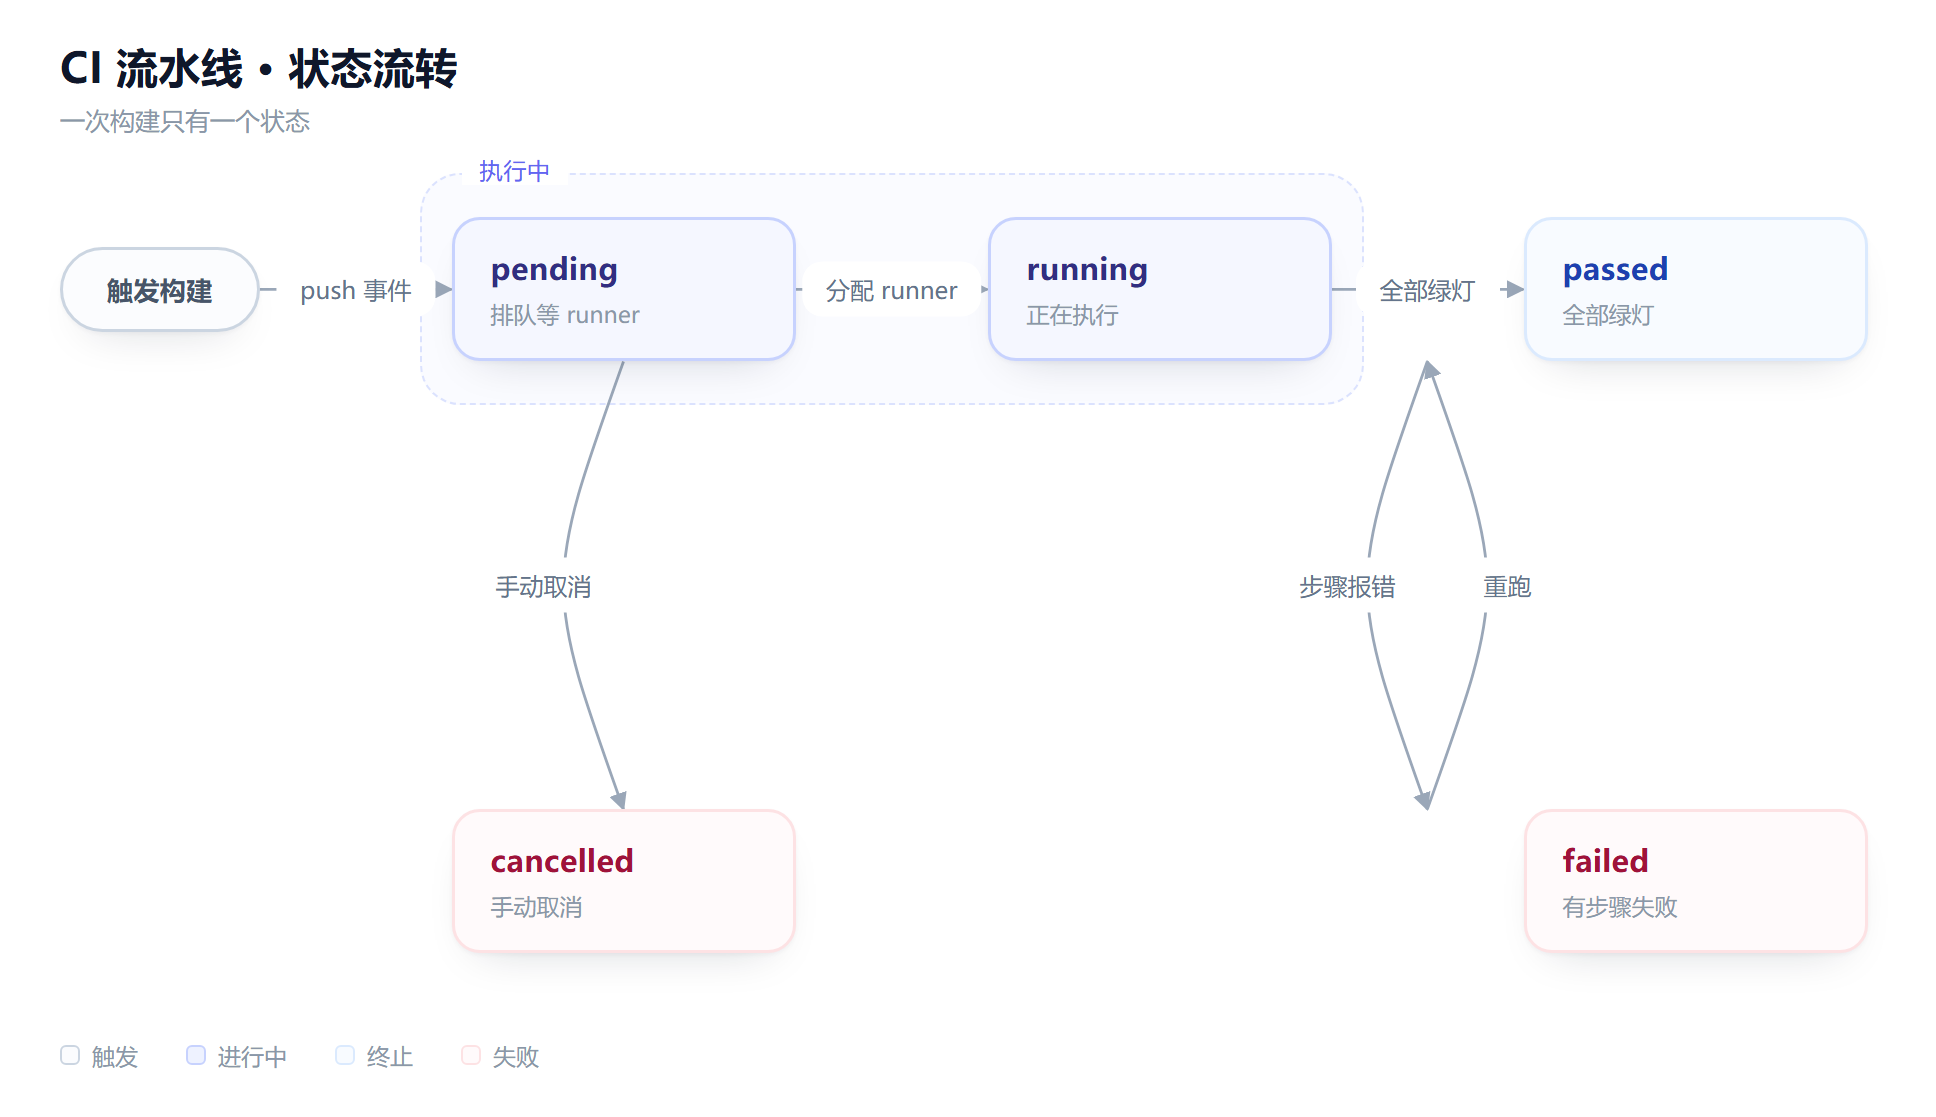
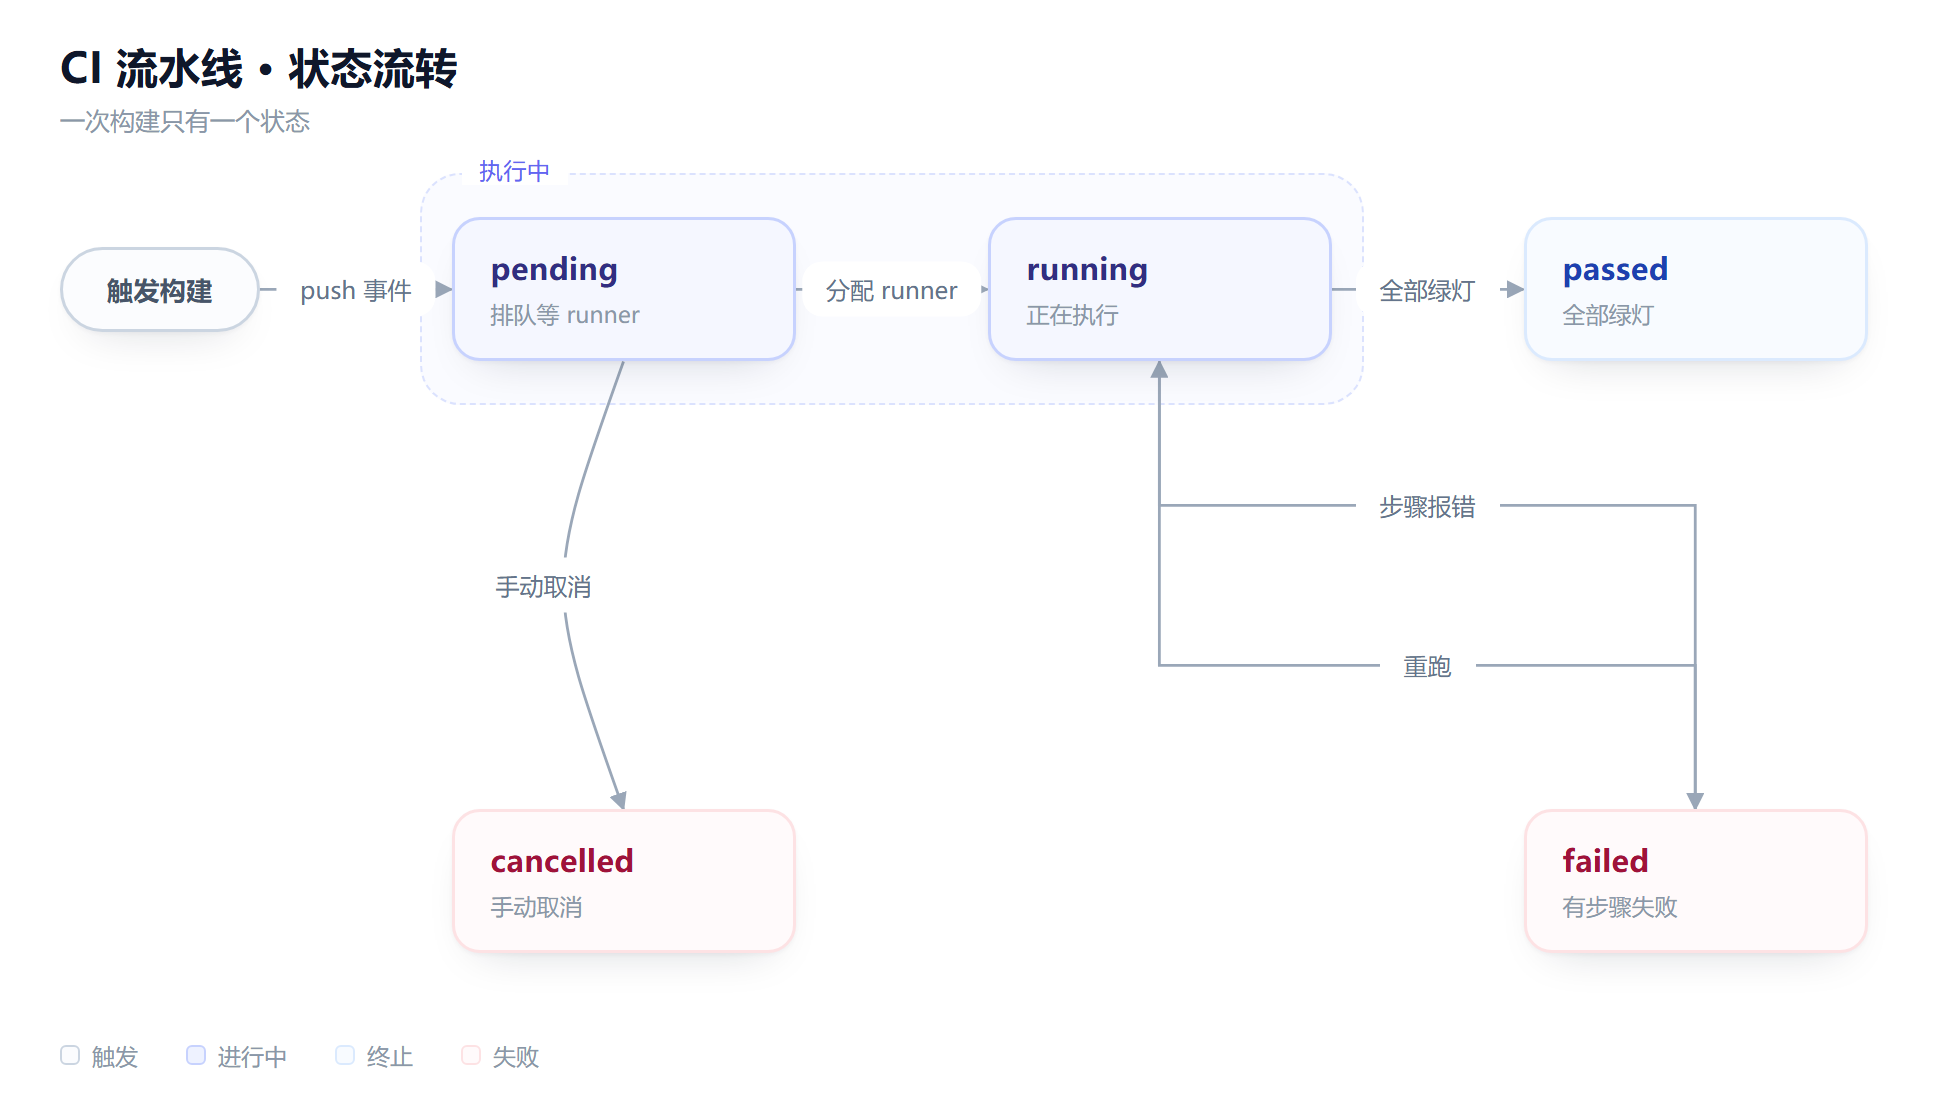
fix: keep diagonal edges anchored to node borders
- route diagonal connections as orthogonal 3-segment paths (out, across, in)
- choose the path that does not cross any other card
- add regression tests covering all four diagonal directions and the no-crossing fallback
- regenerate examples 02 and 03

diff --git a/src/dgm/templates/base.html b/src/dgm/templates/base.html
@@ -49,13 +49,42 @@ const EDGES = __EDGES__;
 const canvas=document.getElementById('canvas'), svg=document.getElementById('wires');
 function box(id){const el=document.getElementById(id);if(!el)return null;
   const c=canvas.getBoundingClientRect(),r=el.getBoundingClientRect();
-  return {x:r.left-c.left,y:r.top-c.top,w:r.width,h:r.height,cx:r.left-c.left+r.width/2,
+  return {id:id,x:r.left-c.left,y:r.top-c.top,w:r.width,h:r.height,cx:r.left-c.left+r.width/2,
           cy:r.top-c.top+r.height/2,r:r.left-c.left+r.width,b:r.top-c.top+r.height};}
-function anchors(a,b){const ov=Math.min(a.b,b.b)>Math.max(a.y,b.y);
-  if(b.cx>a.cx&&ov){const y=(Math.max(a.y,b.y)+Math.min(a.b,b.b))/2;return [{x:a.r,y},{x:b.x,y},'h'];}
-  if(b.cx<a.cx&&ov){const y=(Math.max(a.y,b.y)+Math.min(a.b,b.b))/2;return [{x:a.x,y},{x:b.r,y},'h'];}
-  if(b.cy>a.cy){const x=(Math.max(a.x,b.x)+Math.min(a.r,b.r))/2;return [{x,y:a.b},{x,y:b.y},'v'];}
-  const x=(Math.max(a.x,b.x)+Math.min(a.r,b.r))/2;return [{x,y:a.y},{x,y:b.b},'v'];}
+function anchors(a,b,boxes){
+  const yov=Math.min(a.b,b.b)>Math.max(a.y,b.y);   // y 范围重叠 → 可横连
+  const xov=Math.min(a.r,b.r)>Math.max(a.x,b.x);   // x 范围重叠 → 可竖连
+  if(b.cx>a.cx&&yov){const y=(Math.max(a.y,b.y)+Math.min(a.b,b.b))/2;return [{x:a.r,y},{x:b.x,y},'h'];}
+  if(b.cx<a.cx&&yov){const y=(Math.max(a.y,b.y)+Math.min(a.b,b.b))/2;return [{x:a.x,y},{x:b.r,y},'h'];}
+  if(b.cy>a.cy&&xov){const x=(Math.max(a.x,b.x)+Math.min(a.r,b.r))/2;return [{x,y:a.b},{x,y:b.y},'v'];}
+  if(b.cy<a.cy&&xov){const x=(Math.max(a.x,b.x)+Math.min(a.r,b.r))/2;return [{x,y:a.y},{x,y:b.b},'v'];}
+  // 斜对角（x/y 范围都不重叠）：锚点贴边——起点取 a 靠近 b 的那条边中点，终点同理取 b，
+  // 不用「范围中点」（两个范围不相交时中点落在卡片外的空隙里，锚点会悬空）。
+  return diagAnchors(a,b,boxes);}
+function diagAnchors(a,b,boxes){
+  const dx=b.cx-a.cx,dy=b.cy-a.cy;
+  const h=[{x:dx>=0?a.r:a.x,y:a.cy},{x:dx>=0?b.x:b.r,y:b.cy},'dh'];
+  const v=[{x:a.cx,y:dy>=0?a.b:a.y},{x:b.cx,y:dy>=0?b.y:b.b},'dv'];
+  if(!boxes||!boxes.length)return Math.abs(dx)>=Math.abs(dy)?h:v;
+  // 正交折线可能横穿夹在中间的卡片：两条候选各查一遍，哪条不穿走哪条；
+  // 都不穿（或都穿）才按主方向（|dx|、|dy| 谁大走谁）。
+  const hb=routeBlocked(h,a,b,boxes),vb=routeBlocked(v,a,b,boxes);
+  if(hb&&!vb)return v;
+  if(vb&&!hb)return h;
+  return Math.abs(dx)>=Math.abs(dy)?h:v;}
+function routeBlocked(r,a,b,boxes){
+  const p1=r[0],p2=r[1],mx=(p1.x+p2.x)/2,my=(p1.y+p2.y)/2;
+  const legs=r[2]==='dh'
+    ?[[p1.x,p1.y,mx,p1.y],[mx,p1.y,mx,p2.y],[mx,p2.y,p2.x,p2.y]]
+    :[[p1.x,p1.y,p1.x,my],[p1.x,my,p2.x,my],[p2.x,my,p2.x,p2.y]];
+  return legs.some(l=>segHitsBox(l[0],l[1],l[2],l[3],boxes,a.id,b.id));}
+function segHitsBox(x1,y1,x2,y2,boxes,skipId1,skipId2){
+  const minx=Math.min(x1,x2),maxx=Math.max(x1,x2),
+        miny=Math.min(y1,y2),maxy=Math.max(y1,y2);
+  for(const r of boxes){
+    if(r.id===skipId1||r.id===skipId2)continue;
+    if(maxx>=r.x&&minx<=r.r&&maxy>=r.y&&miny<=r.b)return true;}
+  return false;}
 const NS='http://www.w3.org/2000/svg';
 function draw(){
   svg.innerHTML='';canvas.querySelectorAll('.elabel').forEach(n=>n.remove());
@@ -65,13 +94,22 @@ function draw(){
      orient="auto-start-reverse"><path d="M0,0 L10,5 L0,10 z" fill="#9aa7b8"/></marker>`;
   svg.appendChild(defs);
   const labs=[];
+  const boxes=[...canvas.querySelectorAll('.node')].map(n=>box(n.id)).filter(Boolean);
   EDGES.forEach(e=>{
     const a=box(e.from),b=box(e.to);if(!a||!b)return;
-    const [p1,p2,dir]=anchors(a,b);const bend=e.bend||0;let d,mx,my;
+    const [p1,p2,dir]=anchors(a,b,boxes);const bend=e.bend||0;let d,mx,my;
     if(dir==='h'){mx=(p1.x+p2.x)/2;my=(p1.y+p2.y)/2+bend;
       d=`M${p1.x},${p1.y} C${mx},${p1.y+bend} ${mx},${p2.y+bend} ${p2.x},${p2.y}`;}
-    else{mx=(p1.x+p2.x)/2+bend;my=(p1.y+p2.y)/2;
+    else if(dir==='v'){mx=(p1.x+p2.x)/2+bend;my=(p1.y+p2.y)/2;
       d=`M${p1.x},${p1.y} C${p1.x+bend},${my} ${p2.x+bend},${my} ${p2.x},${p2.y}`;}
+    else if(dir==='dh'){ // 斜对角·主方向横向：水平出 → 中点 → 垂直 → 水平入
+      mx=Math.min(Math.max((p1.x+p2.x)/2+bend,Math.min(p1.x,p2.x)),Math.max(p1.x,p2.x));
+      my=(p1.y+p2.y)/2;
+      d=`M${p1.x},${p1.y} L${mx},${p1.y} L${mx},${p2.y} L${p2.x},${p2.y}`;}
+    else{ // 'dv' 斜对角·主方向纵向：垂直出 → 中点 → 水平 → 垂直入
+      my=Math.min(Math.max((p1.y+p2.y)/2+bend,Math.min(p1.y,p2.y)),Math.max(p1.y,p2.y));
+      mx=(p1.x+p2.x)/2;
+      d=`M${p1.x},${p1.y} L${p1.x},${my} L${p2.x},${my} L${p2.x},${p2.y}`;}
     const path=document.createElementNS(NS,'path');path.setAttribute('d',d);
     path.setAttribute('fill','none');path.setAttribute('stroke','#9aa7b8');path.setAttribute('stroke-width','1.4');
     if(e.dashed)path.setAttribute('stroke-dasharray','4 4');

diff --git a/tests/test_renderer.py b/tests/test_renderer.py
@@ -1,6 +1,8 @@
 """renderer 测试：不跑真浏览器，mock 掉 subprocess，验证 HTML 内容和裁剪逻辑。"""
 
+import itertools
 import json
+import shutil
 import subprocess
 from pathlib import Path
 
@@ -8,7 +10,7 @@ import pytest
 from PIL import Image
 
 from dgm.parser import DgmError, parse_dgm
-from dgm.renderer import build_html, find_browser, render, validate_spec
+from dgm.renderer import build_html, find_browser, load_template, render, validate_spec
 
 SAMPLE = """\
 title: 测试图
@@ -129,3 +131,141 @@ def test_find_browser_env_var(monkeypatch, tmp_path):
     fake.write_text("")
     monkeypatch.setenv("DGM_BROWSER", str(fake))
     assert find_browser() == str(fake)
+
+
+# ---------------- anchors：抽模板里的真 JS 跑 node，验证锚点贴边 ----------------
+
+
+def _extract_anchor_js() -> str:
+    """从 base.html 抽出 anchors()/diagAnchors() 函数源码——测真代码，不是 Python 复刻品。"""
+    template = load_template()
+    start = template.index("function anchors(")
+    end = template.index("const NS=")
+    js = template[start:end]
+    assert "diagAnchors" in js, "抽出失败：模板里找不到 diagAnchors"
+    return js
+
+
+def _run_anchors_js(cases: list):
+    """把 [(a,b) 或 (a,b,boxes), ...] 喂给模板里的 anchors()，返回对应返回值列表。"""
+    node = shutil.which("node")
+    if node is None:
+        pytest.skip("本机没有 node，跳过 anchors JS 单测")
+    script = (
+        _extract_anchor_js()
+        + "\nconst CASES="
+        + json.dumps(cases)
+        + ";\nconsole.log(JSON.stringify(CASES.map(c=>anchors(...c))));"
+    )
+    out = subprocess.run([node, "-e", script], capture_output=True, text=True, timeout=30)
+    assert out.returncode == 0, f"node 执行失败：{out.stderr}"
+    return json.loads(out.stdout)
+
+
+_BOX_SEQ = itertools.count()
+
+
+def _box(x: float, y: float, w: float = 200, h: float = 64, id: str | None = None) -> dict:
+    """造一个 box 对象；id 必须唯一——segHitsBox 靠 id 跳过起终点卡片。"""
+    return {"id": id or f"n{next(_BOX_SEQ)}", "x": x, "y": y, "w": w, "h": h,
+            "cx": x + w / 2, "cy": y + h / 2, "r": x + w, "b": y + h}
+
+
+def _on_border(p: dict, box: dict) -> bool:
+    """点是否落在 box 的四条边之一上，且在该边段范围内。"""
+    on_side = (p["x"] == box["x"] or p["x"] == box["r"]) and box["y"] <= p["y"] <= box["b"]
+    on_top_bottom = (p["y"] == box["y"] or p["y"] == box["b"]) and box["x"] <= p["x"] <= box["r"]
+    return on_side or on_top_bottom
+
+
+def test_anchors_diagonal_endpoints_on_node_border():
+    """斜对角（x/y 范围都不重叠）锚点必须贴边——回归 02/03 曲线断头的 bug。
+
+    旧实现用「x 范围中点」当锚点，两卡片 x 范围不相交时中点落在空隙里，箭头悬空。
+    """
+    # 复刻 @1,1 → @2,3 的典型布局：卡片 172+ 宽，列间距 96 / 行间距 112
+    a = _box(0, 0)                      # x∈[0,200] y∈[0,64]
+    b = _box(200 + 96, 64 + 112)        # x∈[296,496] y∈[176,240]——两个范围都不重叠
+    assert min(a["r"], b["r"]) <= max(a["x"], b["x"])   # x 不重叠（触发旧 bug 的前提）
+    assert min(a["b"], b["b"]) <= max(a["y"], b["y"])   # y 不重叠
+
+    [p1, p2, direction] = _run_anchors_js([(a, b)])[0]
+    assert direction in ("dh", "dv")
+    assert _on_border(p1, a), f"起点 {p1} 不在 a 的边框上"
+    assert _on_border(p2, b), f"终点 {p2} 不在 b 的边框上"
+    # 旧 bug 的悬空点：x 取两卡片 x 范围的中点 (200+296)/2=248，谁都不沾
+    assert p1["x"] != 248 and p2["x"] != 248
+    # 主方向横向（|dx|=296 > |dy|=176）→ a 右边中点出、b 左边中点入
+    assert (p1["x"], p1["y"]) == (a["r"], a["cy"])
+    assert (p2["x"], p2["y"]) == (b["x"], b["cy"])
+
+
+def test_anchors_diagonal_all_four_directions():
+    """四个斜对角方向，起终点都必须落在各自卡片边框上。"""
+    a = _box(0, 0)
+    right_down = _box(296, 176)      # b 在右下
+    right_up = _box(296, -176 - 64)  # b 在右上
+    left_down = _box(-296 - 200, 176)
+    left_up = _box(-296 - 200, -176 - 64)
+    pairs = [(a, right_down), (a, right_up), (a, left_down), (a, left_up),
+             (right_down, a), (right_up, a), (left_down, a), (left_up, a)]
+    for (p1, p2, direction), (aa, bb) in zip(_run_anchors_js(pairs), pairs):
+        assert direction in ("dh", "dv")
+        assert _on_border(p1, aa), f"起点 {p1} 不在卡片边框上"
+        assert _on_border(p2, bb), f"终点 {p2} 不在卡片边框上"
+
+
+def test_anchors_diagonal_vertical_dominant_uses_top_bottom_edges():
+    """主方向纵向的斜对角 → 从上/下边出入，锚点同样贴边。"""
+    a = _box(0, 0)
+    b = _box(296, 64 + 400)  # 远在下方 → |dy| > |dx|
+    [p1, p2, direction] = _run_anchors_js([(a, b)])[0]
+    assert direction == "dv"
+    assert (p1["x"], p1["y"]) == (a["cx"], a["b"])
+    assert (p2["x"], p2["y"]) == (b["cx"], b["y"])
+    assert _on_border(p1, a) and _on_border(p2, b)
+
+
+def test_anchors_overlap_cases_still_use_overlap_midpoint():
+    """同行/同列（范围重叠）的锚点仍取重叠范围中点——确认没把正常路径改坏。"""
+    row_a, row_b = _box(0, 0), _box(296, 20)      # y 重叠 [20,64]
+    col_a, col_b = _box(0, 0), _box(50, 176)      # x 重叠 [50,200]
+    (h1, h2, hdir), (v1, v2, vdir) = _run_anchors_js([(row_a, row_b), (col_a, col_b)])
+    assert hdir == "h" and vdir == "v"
+    hy = (max(row_a["y"], row_b["y"]) + min(row_a["b"], row_b["b"])) / 2  # 42
+    vx = (max(col_a["x"], col_b["x"]) + min(col_a["r"], col_b["r"])) / 2  # 125
+    assert h1["y"] == h2["y"] == hy
+    assert v1["x"] == v2["x"] == vx
+    assert _on_border(h1, row_a) and _on_border(h2, row_b)
+    assert _on_border(v1, col_a) and _on_border(v2, col_b)
+
+
+def test_anchors_diagonal_avoids_crossing_middle_card():
+    """斜对角路由避开夹在中间的卡片——回归 03「已驳回->草稿」水平段横穿中间列的走位。
+
+    复刻 03 布局：草稿@1,1、提交申请@2,1（挡路卡）、已驳回@3,3。横向折线（dh）
+    的最后一段在 y=已驳回 的行高上穿过提交申请；竖向折线（dv）中段走在空行隙里。
+    传了 boxes 时应选 dv；不传 boxes（老接口）退回主方向 dh。
+    """
+    draft = _box(0, 0)            # 草稿 col1 row1
+    middle = _box(296, 20)        # 提交申请 col2 row1（挡路）
+    rejected = _box(200 * 2 + 96 * 2, 64 + 112)  # 已驳回 col3 row3
+    boxes = [draft, middle, rejected]
+    (p1, p2, direction), = _run_anchors_js([(rejected, draft, boxes)])
+    assert direction == "dv"
+    assert _on_border(p1, rejected) and _on_border(p2, draft)
+    # 不传 boxes 时保持旧行为：按主方向（|dx|>|dy| → dh）
+    (p1, p2, direction), = _run_anchors_js([(rejected, draft)])
+    assert direction == "dh"
+    assert _on_border(p1, rejected) and _on_border(p2, draft)
+
+
+def test_anchors_diagonal_prefers_dominant_when_both_routes_clear():
+    """两条候选都不穿卡时，仍按主方向选——确认避卡逻辑没有喧宾夺主。"""
+    a = _box(0, 0)
+    b = _box(296, 176)            # 右下斜对角，中间无卡
+    boxes = [a, b]
+    (p1, p2, direction), = _run_anchors_js([(a, b, boxes)])
+    assert direction == "dh"      # |dx| 296 > |dy| 176
+    assert (p1["x"], p1["y"]) == (a["r"], a["cy"])
+    assert (p2["x"], p2["y"]) == (b["x"], b["cy"])

diff --git a/README.md b/README.md
@@ -71,7 +71,7 @@ warn  已驳回     @2,3 | 终态
 group 主流程: 待付款, 已完成    # 自动画虚线包围框
 
 下单成功 -> 待付款: 创建订单    # A -> B: 标签
-待付款 -> 已取消: 超时 ~-40     # ~N 控制连线弯曲像素
+待付款 -> 已取消: 超时 ~-40     # ~N 控制连线弯曲像素，不改变锚点位置
 a <-> b: 同步                  # 双向边（展开成来回两条）
 
 legend 事件: entry             # 图例 标签: 类型
@@ -92,7 +92,7 @@ legend 事件: entry             # 图例 标签: 类型
 - **`@列,行` 建议都写**。工具不做自动布局（刻意取舍，见上）；不写 `@` 的节点会堆到第 1 列
 - 位置是 1 起始的行列号，稀疏格子会留白，尽量把每行每列填满
 - 双向关系建议写两条边各配 `~`（一正一负），拉成两条平行线更清楚
-- `~` 也可以用在单向边上微调标签位置
+- `~` 只控弯曲幅度，不负责修断头——锚点由布局自动决定：同行/同列落在重叠范围中点，斜对角贴边走正交折线，端点始终在节点边框上
 
 ## 局限
 
